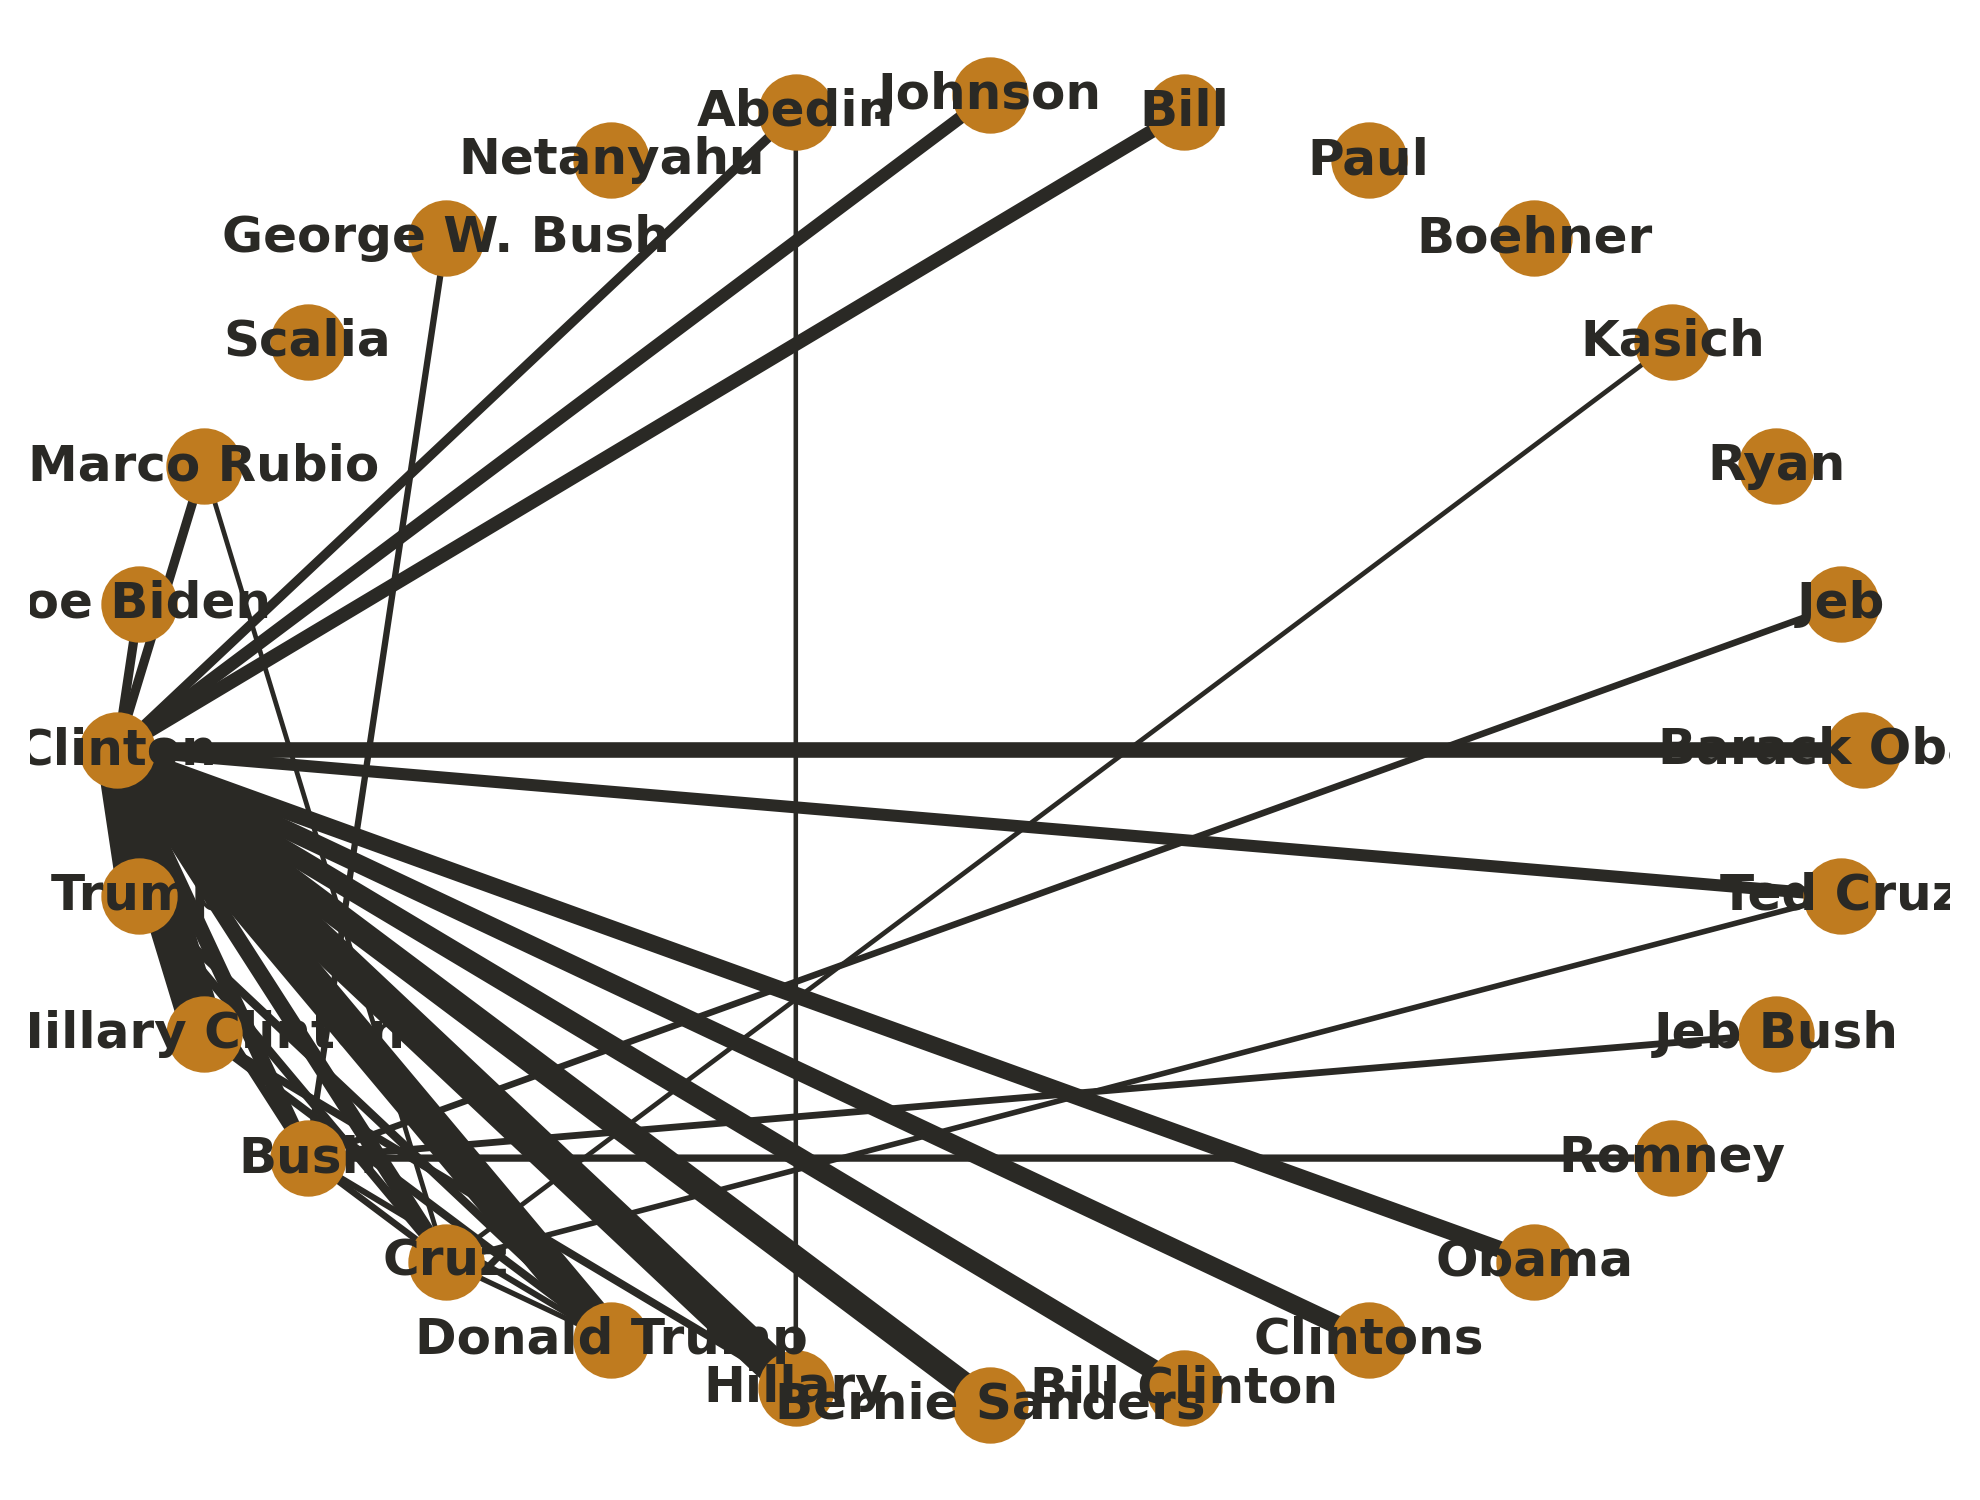
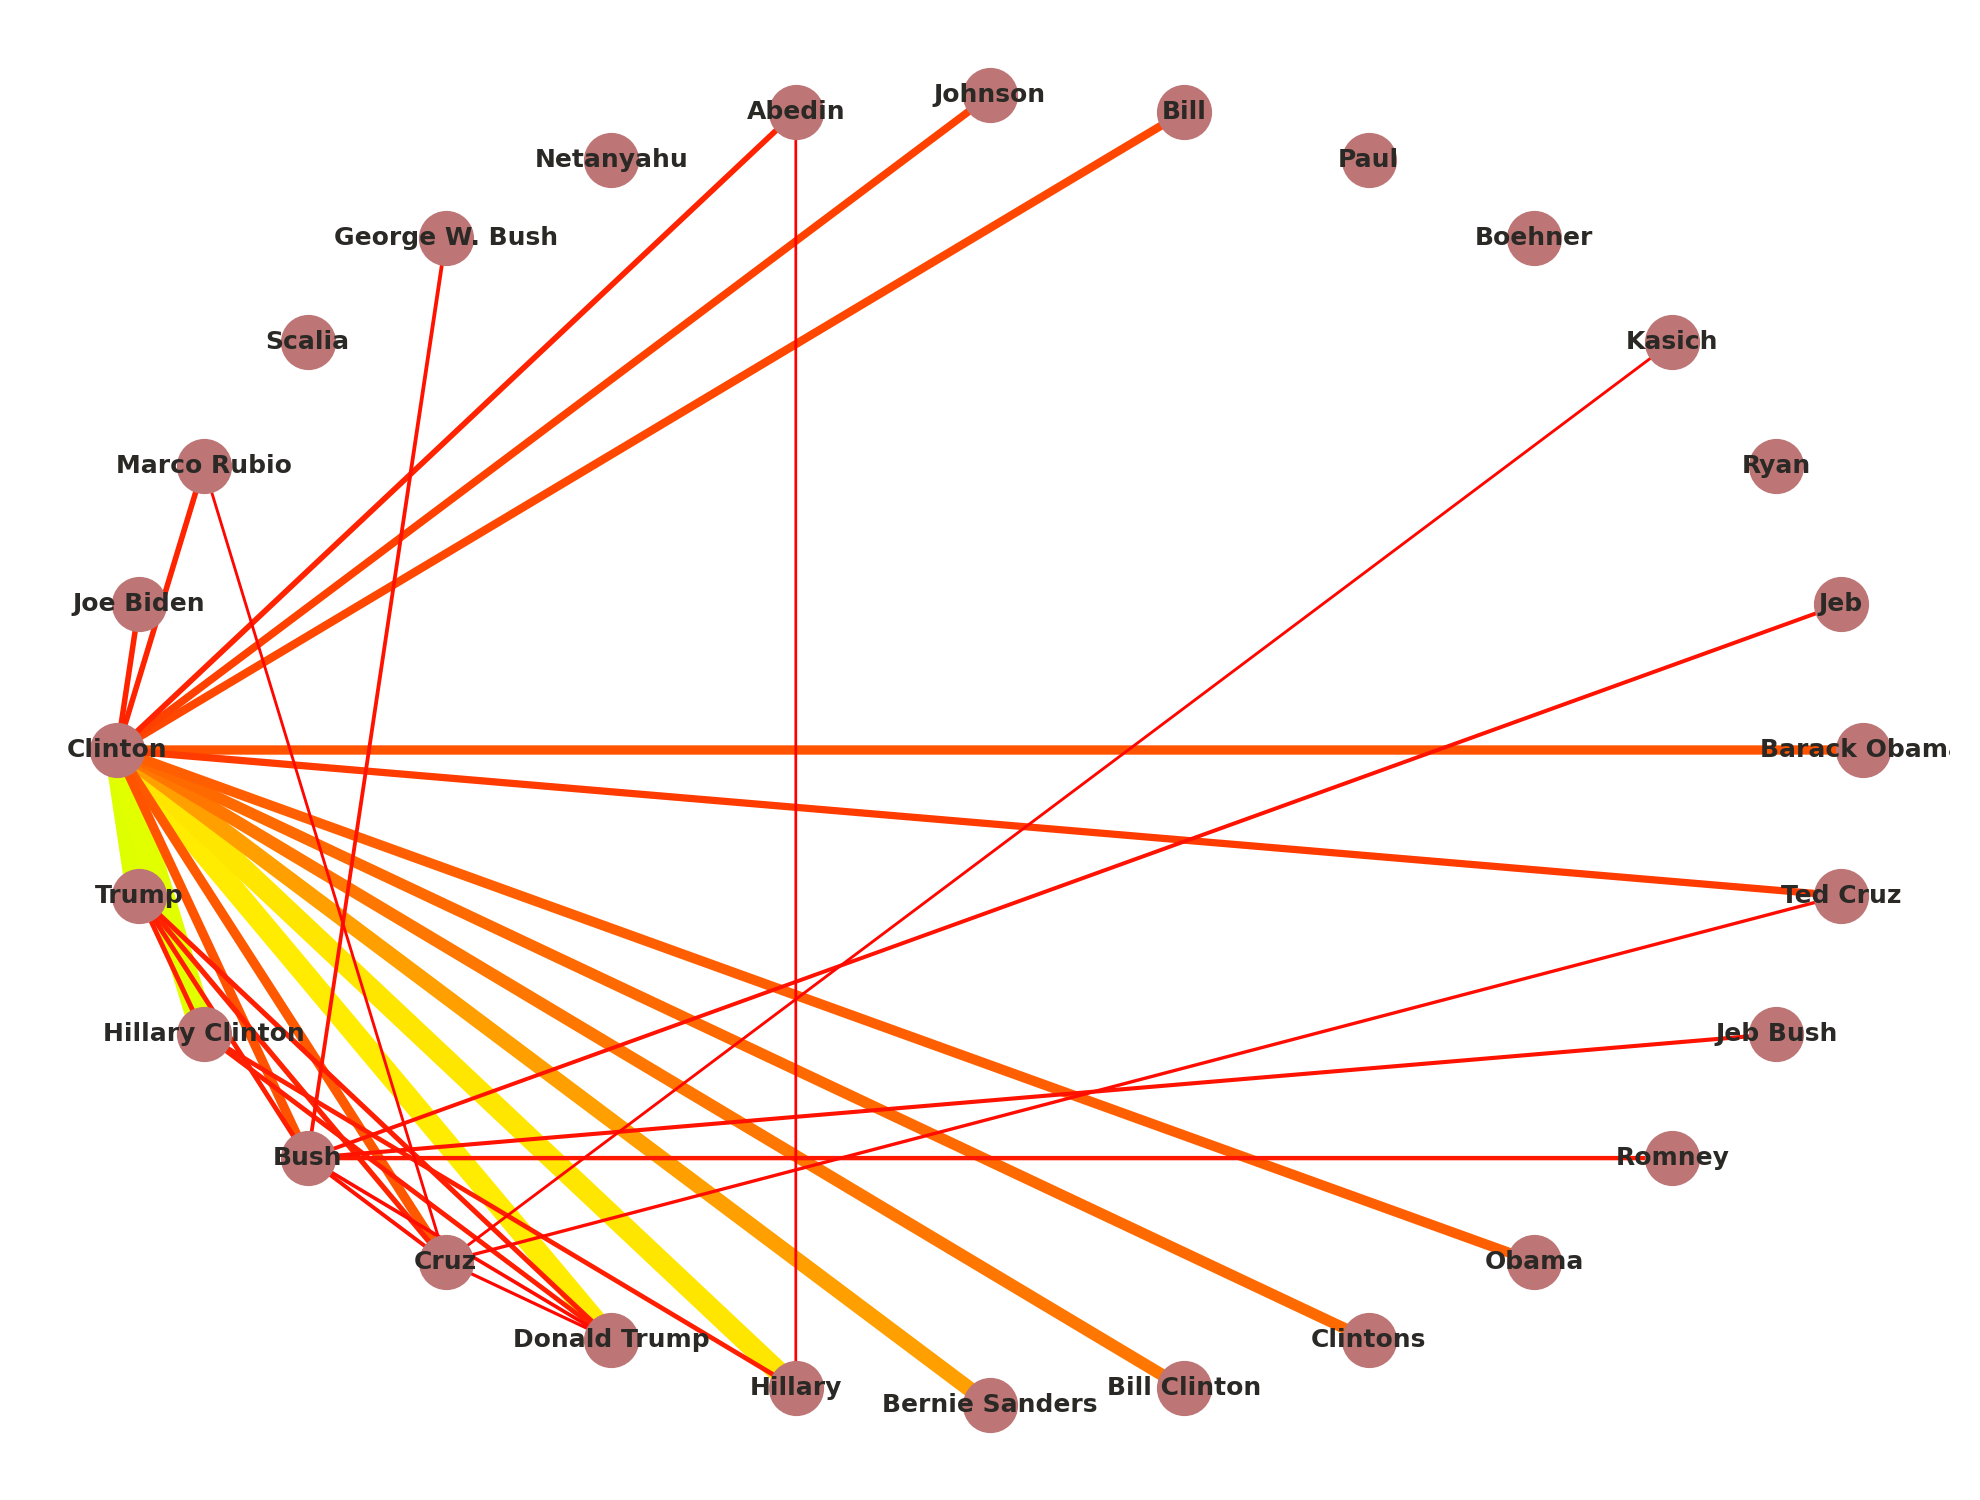
Colouring edges

diff --git a/W6-Network-Analysis/W6-Network-Analysis.py b/W6-Network-Analysis/W6-Network-Analysis.py
@@ -89,11 +89,14 @@ class NetworkAnalysis:
 
         pos = nx.draw_shell(graph,
                             with_labels = True, 
-                            width = filtered_df['weight']/1500, # Weighting the width of the edges by their weight
+                            width = filtered_df['weight']/2500, # Weighting the width of the edges by their weight
                             font_weight= 'bold', 
-                            font_color = "#2A2925",
-                            edge_color = "#2A2925",
-                            node_color = "#BF7B1F")
+                            edge_cmap = plt.cm.hsv,
+                            edge_color = filtered_df['weight'], # Changing line colour according to weight - unfortunately I couldn't add a colorbar but it still looks kinda cool
+                            font_color = "#2A2925", 
+                            font_size = 6,
+                            node_color = "#BD7575",
+                            node_size = 150)
         
         # Save graph
         graph_path = out_dir / "network.png" # Output path for graph
